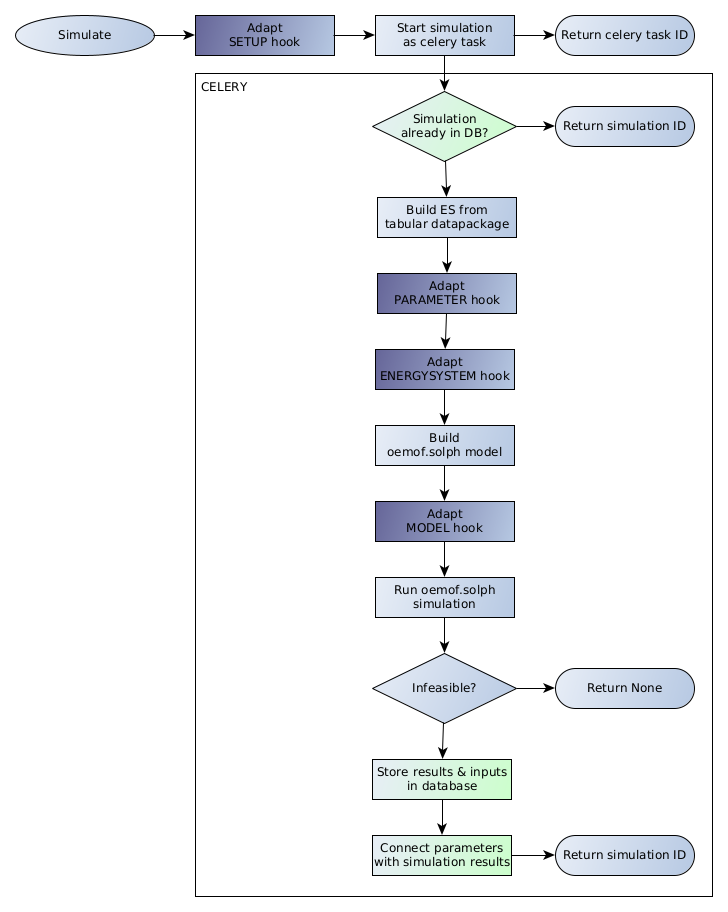
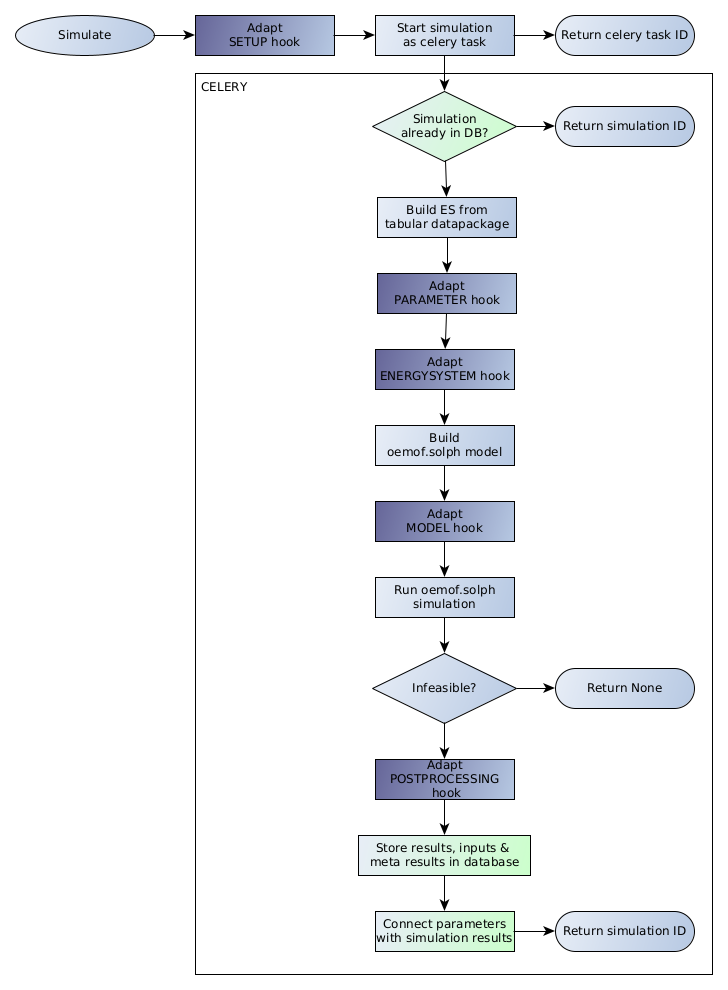
Add docs for postprocessing hook

Changed region(s): [[0.0302, 0.0, 0.967, 0.9518], [0.272, 0.9825, 0.967, 1.0]]

diff --git a/README.md b/README.md
@@ -82,13 +82,17 @@ The different hooks are explained in the following:
 
    This hook gets executed after building the optimization model from ES. By this hook, constraints of the model can be adapted, added or deleted.
 
+5. **Postprocessing Hook**
+
+   This hook gets executed after model is solved and is intended to change meta results or add additional meta results from model. Hook is parametrized with meta_results as data and model as additional_data.
+
 An example hook (from [digiplan](https://github.com/rl-institut-private/digiplan/blob/0b40cc944a94c8ad73ce95b4d0cc2fd092d91433/digiplan/map/hooks.py#L48), adapting electricity demand) could be set up as follows:
 
 ```python
 from django_oemof import hooks
 
 
-def adapt_electricity_demand(scenario: str, data: dict, request: HttpRequest) -> dict:  # noqa: ARG001
+def adapt_electricity_demand(scenario: str, data: dict, additional_data: Any) -> dict:  # noqa: ARG001
     for sector, slider in (("hh", "s_v_3"), ("cts", "s_v_4"), ("ind", "s_v_5")):
         demand = datapackage.get_power_demand(sector)[sector]
         logging.info(f"Adapting electricity demand at {sector=}.")
